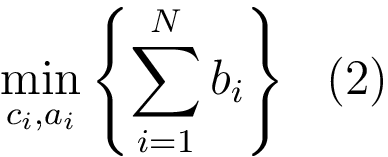
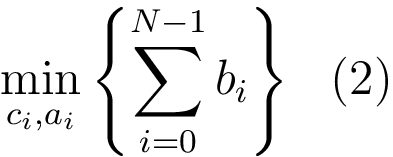
Edited README and eq2

diff --git a/README.md b/README.md
@@ -60,4 +60,6 @@ The objective is to predict for each time interval how mach energy the battery p
 
 <p align="center"> <img src="https://github.com/AnatolyPavlov/smart-battery-for-smart-energy-usage/blob/master/equations/min_daily_bill.png" height="75" width="170"> </p>
 
-here in the Eq.(1) index *i* denotes a time interval in a day, thus herein all terms indexed by *i* represent values of quantities for a single time interval. The term <img src="https://github.com/AnatolyPavlov/smart-battery-for-smart-energy-usage/blob/master/equations/bi.png" height="20" width="15"> is the bill, <img src="https://github.com/AnatolyPavlov/smart-battery-for-smart-energy-usage/blob/master/equations/pi.png" height="20" width="15"> is the price per unit of energy (usually it is money value/kWh), <img src="https://github.com/AnatolyPavlov/smart-battery-for-smart-energy-usage/blob/master/equations/gi.png" height="20" width="15"> is the energy consumed from the grid due to the demand, <img src="https://github.com/AnatolyPavlov/smart-battery-for-smart-energy-usage/blob/master/equations/ci.png" height="20" width="15"> is the amount of energy the battery pack charged from the grid, and <img src="https://github.com/AnatolyPavlov/smart-battery-for-smart-energy-usage/blob/master/equations/ai.png" height="20" width="15"> is the amount of energy the battery pack discharged to power household appliances. It is assumed that battery pack can only be in a single phase within each time interval, thus <img src="https://github.com/AnatolyPavlov/smart-battery-for-smart-energy-usage/blob/master/equations/ci.png" height="20" width="15"> and <img src="https://github.com/AnatolyPavlov/smart-battery-for-smart-energy-usage/blob/master/equations/ai.png" height="20" width="15"> cannot simultaneously be not equal to zero. Equation (2) expresses minimization of the daily bill over <img src="https://github.com/AnatolyPavlov/smart-battery-for-smart-energy-usage/blob/master/equations/ci.png" height="20" width="15"> and <img src="https://github.com/AnatolyPavlov/smart-battery-for-smart-energy-usage/blob/master/equations/ai.png" height="20" width="15"> variables, here capital *N* is total number of time intervals in a day.
+here in the Eq.(1) index *i* denotes a time interval in a day, thus herein all terms indexed by *i* represent values of quantities for a single time interval. The term <img src="https://github.com/AnatolyPavlov/smart-battery-for-smart-energy-usage/blob/master/equations/bi.png" height="20" width="15"> is the bill, <img src="https://github.com/AnatolyPavlov/smart-battery-for-smart-energy-usage/blob/master/equations/pi.png" height="20" width="15"> is the price per unit of energy (usually it is money value/kWh), <img src="https://github.com/AnatolyPavlov/smart-battery-for-smart-energy-usage/blob/master/equations/gi.png" height="20" width="15"> is the energy consumed from the grid due to the demand, <img src="https://github.com/AnatolyPavlov/smart-battery-for-smart-energy-usage/blob/master/equations/ci.png" height="20" width="15"> is the amount of energy the battery pack charged from the grid, and <img src="https://github.com/AnatolyPavlov/smart-battery-for-smart-energy-usage/blob/master/equations/ai.png" height="20" width="15"> is the amount of energy the battery pack discharged to power household appliances. It is assumed that battery pack can only be in a single phase within each time interval, thus <img src="https://github.com/AnatolyPavlov/smart-battery-for-smart-energy-usage/blob/master/equations/ci.png" height="20" width="15"> and <img src="https://github.com/AnatolyPavlov/smart-battery-for-smart-energy-usage/blob/master/equations/ai.png" height="20" width="15"> cannot simultaneously be not equal to zero. Equation (2) expresses minimization of the daily bill over <img src="https://github.com/AnatolyPavlov/smart-battery-for-smart-energy-usage/blob/master/equations/ci.png" height="20" width="15"> and <img src="https://github.com/AnatolyPavlov/smart-battery-for-smart-energy-usage/blob/master/equations/ai.png" height="20" width="15"> variables, here capital *N* is the total number of time intervals in a day.
+
+The Eq.(2) is the subject to the following constraints:
